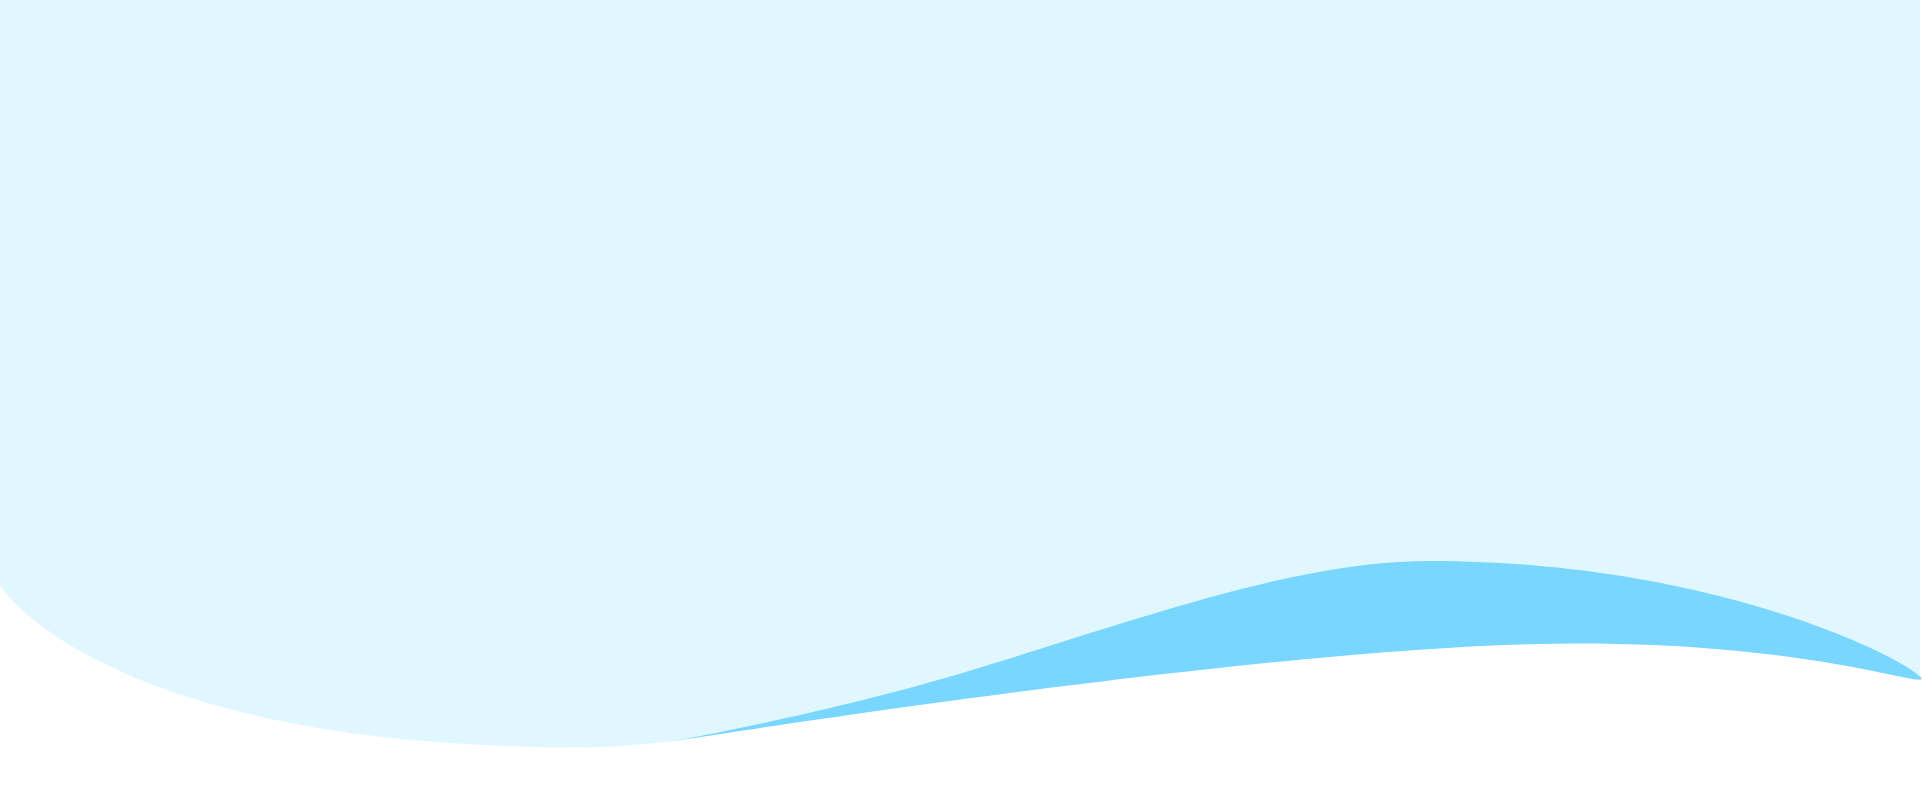
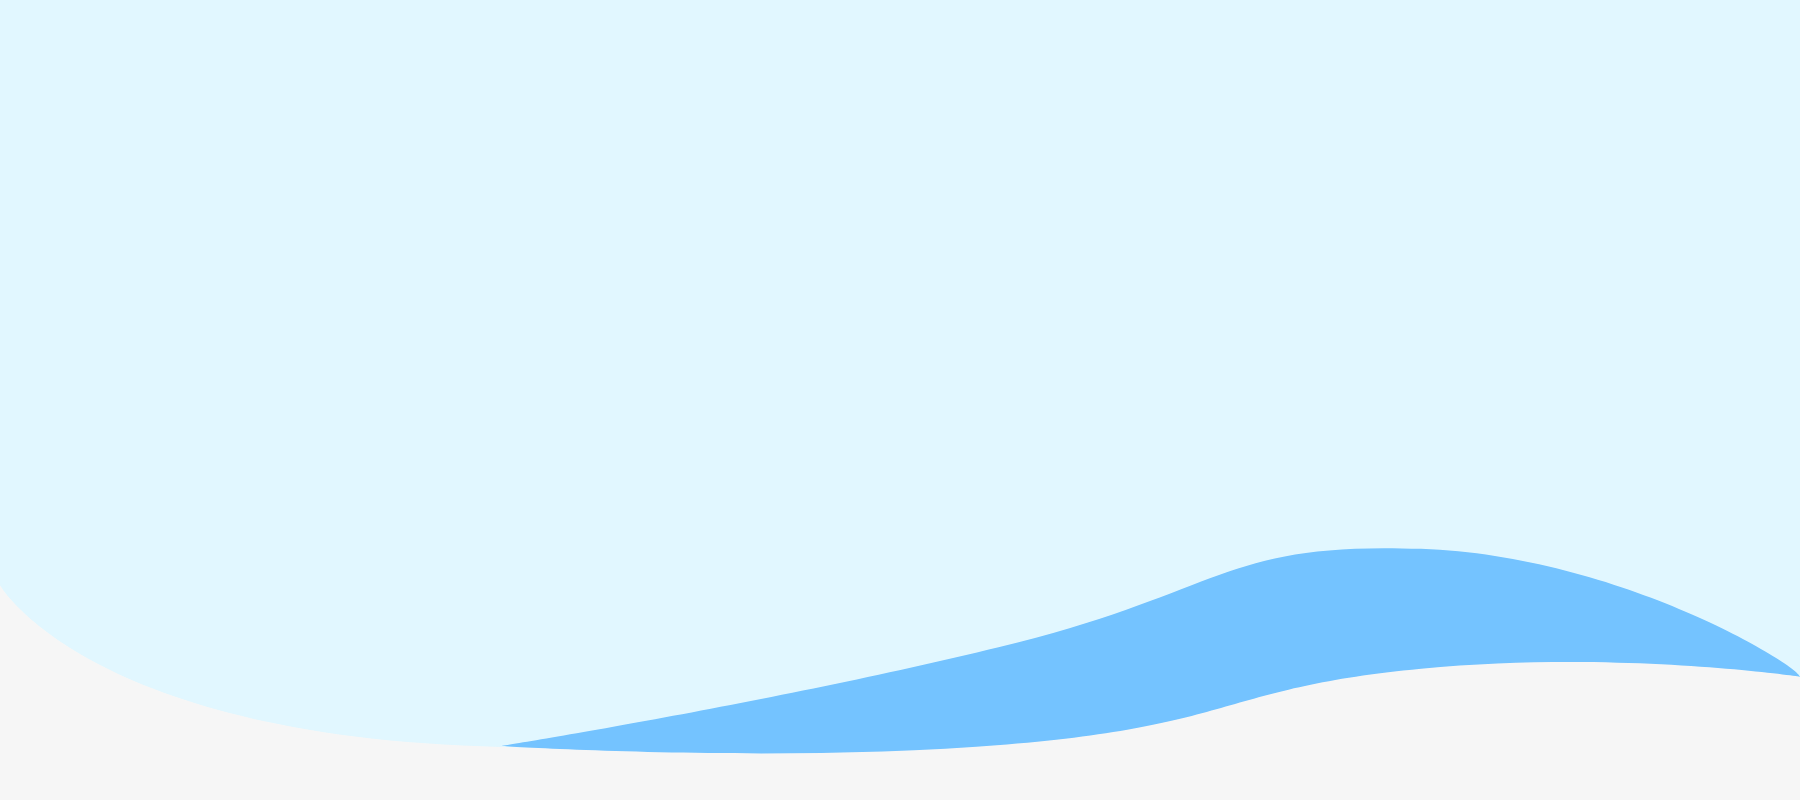
file pertama

Changed region(s): [[0.2798, 0.0, 1.0, 0.9688], [0.5908, 0.7188, 0.653, 0.7812], [0.5286, 0.7812, 0.5908, 0.8125]]

diff --git a/style.css b/style.css
@@ -100,7 +100,7 @@ p, h3, h5, h1{
 .banner{
     width: 100%;
     height: 700px;
-    background: url("/image/Group\ 59.png");
+    background: url("/image/Background.png");
     background-size: cover;
     display: flex;
     align-items: center;
